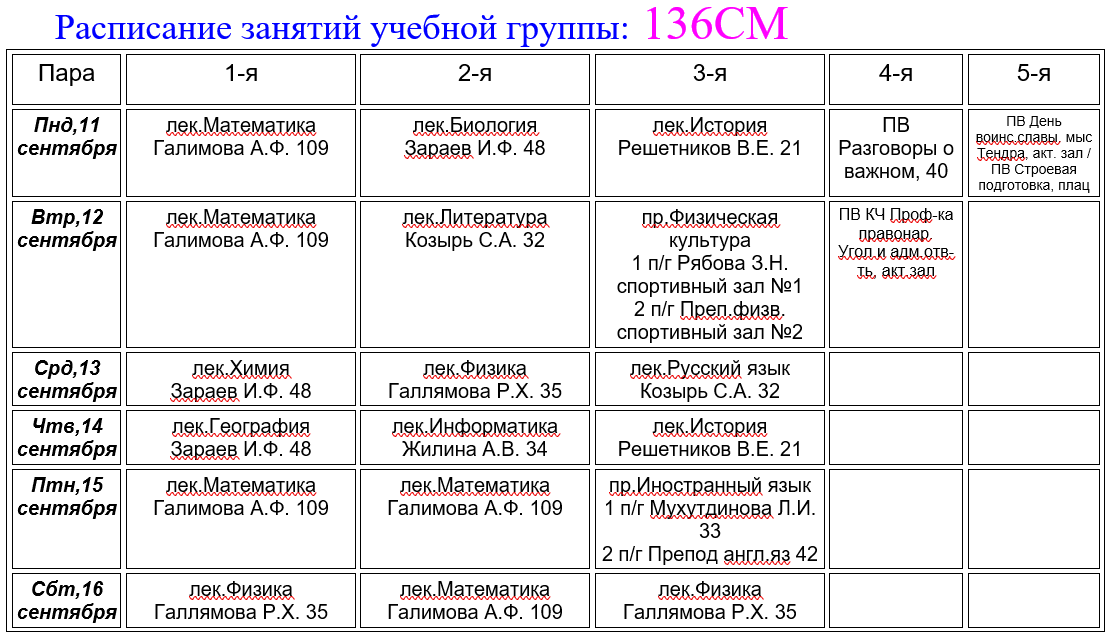
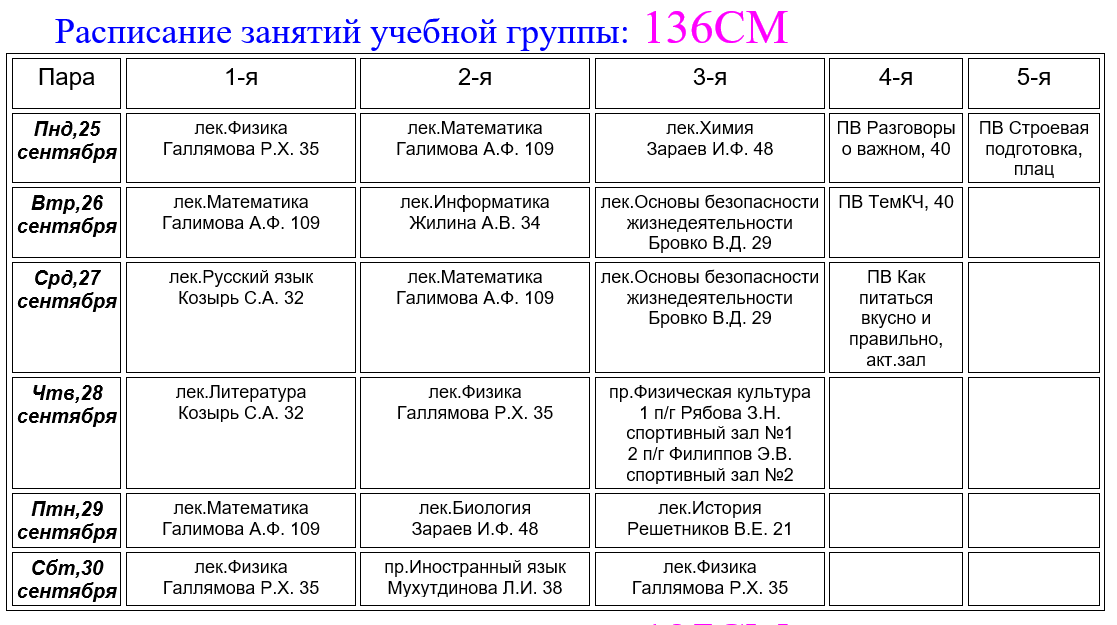
feat(schedule, mainPage) Обновил расписание на неделю, разместил объявление
Еженедельная задача

Changed region(s): [[0.0, 0.0, 1.0, 1.0]]

diff --git a/src/app/layouts/main.jsx b/src/app/layouts/main.jsx
@@ -28,14 +28,37 @@ const Main = observer(() => {
       >
         <h1 style={{ textAlign: "center", fontWeight: "bold" }}>
           {" "}
-          1 сентября — День знаний
+          Принятие кодекса чести курсанта
         </h1>{" "}
-        <p>
-          1 сентября 2023 г. в 8.15 состоится построение курсантов на плацу
-          филиала. Явка строго обязательна в установленной форме одежды. С
-          уважением, зам. директора по учебной работе Уфимского филиала ФГБОУ ВО
-          «Волжский государственный университет водного транспорта»
-        </p>
+        <div style={{ textAlign: "justify", "text-indent": "1.5em" }}>
+          <p>
+            22 сентября 2023 года в 11:00 на платцу состоится торжественное
+            мероприятие - принятие курсантами Уфимского филиала ФГБОУ ВО «ВГУВТ»
+            Кодекса чести курсанта.
+          </p>
+          <p>
+            По традиции в это день каждый первокурсник произнесет слова Кодекса
+            чести курсанта Уфимского филиала, обязуясь добросовестно учиться,
+            воспитывать в себе честность, ответственность и взаимовыручку в
+            лучших традициях Российского флота, дорожить честью учебного
+            заведения и высоким званием курсанта и пронести верность этому
+            обещанию через все годы учебы. Курсантские билеты первокурсникам
+            вручают гости: представители судоходных компаний, выпускники прошлых
+            лет, достигшие высоких профессиональных результатов, социальные
+            партнеры. Во время торжественного мероприятия награждаются лучшие
+            курсанты нового набора, успевшие за первый месяц учебы стать
+            победителями соревнований и конкурсов, которые проводились в рамках
+            месячника первокурсника. Кульминация праздника - торжественный марш
+            курсантов, вошедших в состав курсантов Уфимского филиала.
+          </p>
+          <p>
+            Во время торжественного мероприятия награждаются лучшие курсанты
+            нового набора, успевшие за первый месяц учебы стать победителями
+            соревнований и конкурсов, которые проводились в рамках месячника
+            первокурсника. Кульминация праздника - торжественный марш курсантов,
+            вошедших в состав курсантов Уфимского филиала.{" "}
+          </p>
+        </div>
       </div>
       <div
         className={toggleClassName(

diff --git a/src/app/components/page/schedule/Schedule.jsx b/src/app/components/page/schedule/Schedule.jsx
@@ -32,6 +32,8 @@ import { ReactComponent as SV254 } from "../../../assets/img/schedule/254SV.svg"
 import SV254png from "../../../assets/img/schedule/254SV.png";
 import { ReactComponent as OP303 } from "../../../assets/img/schedule/303OP.svg";
 import OP303PNG from "../../../assets/img/schedule/303OP.png";
+import { ReactComponent as EM328 } from "../../../assets/img/schedule/328EM.svg";
+import { ReactComponent as EM329 } from "../../../assets/img/schedule/329EM.svg";
 import { ReactComponent as SV350 } from "../../../assets/img/schedule/350SV.svg";
 import SV350png from "../../../assets/img/schedule/350SV.png";
 import { ReactComponent as SV351 } from "../../../assets/img/schedule/351SV.svg";
@@ -55,6 +57,8 @@ import SM235pngnew from "../../../assets/img/schedule/new/235SM.png";
 import SV253PNGnew from "../../../assets/img/schedule/new/253SV.png";
 import SV254pngnew from "../../../assets/img/schedule/new/254SV.png";
 import OP303PNGnew from "../../../assets/img/schedule/new/303OP.png";
+import EM328PNGnew from "../../../assets/img/schedule/new/328EM.png";
+import EM329PNGnew from "../../../assets/img/schedule/new/329EM.png";
 import SV350pngnew from "../../../assets/img/schedule/new/350SV.png";
 import SV351PNGnew from "../../../assets/img/schedule/new/351SV.png";
 import SV355PNGnew from "../../../assets/img/schedule/new/355SV.png";
@@ -79,18 +83,18 @@ const Schedule = () => {
             className={`${week ? "schedule_btn" : null}`}
             onClick={() => setWeek(true)}
           >
-            3 неделя первый семестр
+            4 неделя первый семестр
           </Button>
           <Button
             style={{ margin: "0 0 0 10px" }}
             className={`${!week ? "schedule_btn" : null}`}
             onClick={() => setWeek(false)}
           >
-            4 неделя первый семестр
+            5 неделя первый семестр
           </Button>
         </dib>
         {/* <Calendar /> */}
-        {!week ? (
+        {week ? (
           <ul>
             <li>
               <a href={OP106png} target="_blank" rel="noopener noreferrer">
@@ -258,6 +262,16 @@ const Schedule = () => {
             <li>
               <a href={OP303PNGnew} target="_blank" rel="noopener noreferrer">
                 <OP303 width={"200px"} height={"120px"} />
+              </a>
+            </li>
+            <li>
+              <a href={EM328PNGnew} target="_blank" rel="noopener noreferrer">
+                <EM328 width={"200px"} height={"120px"} />
+              </a>
+            </li>
+            <li>
+              <a href={EM329PNGnew} target="_blank" rel="noopener noreferrer">
+                <EM329 width={"200px"} height={"120px"} />
               </a>
             </li>
             <li>
